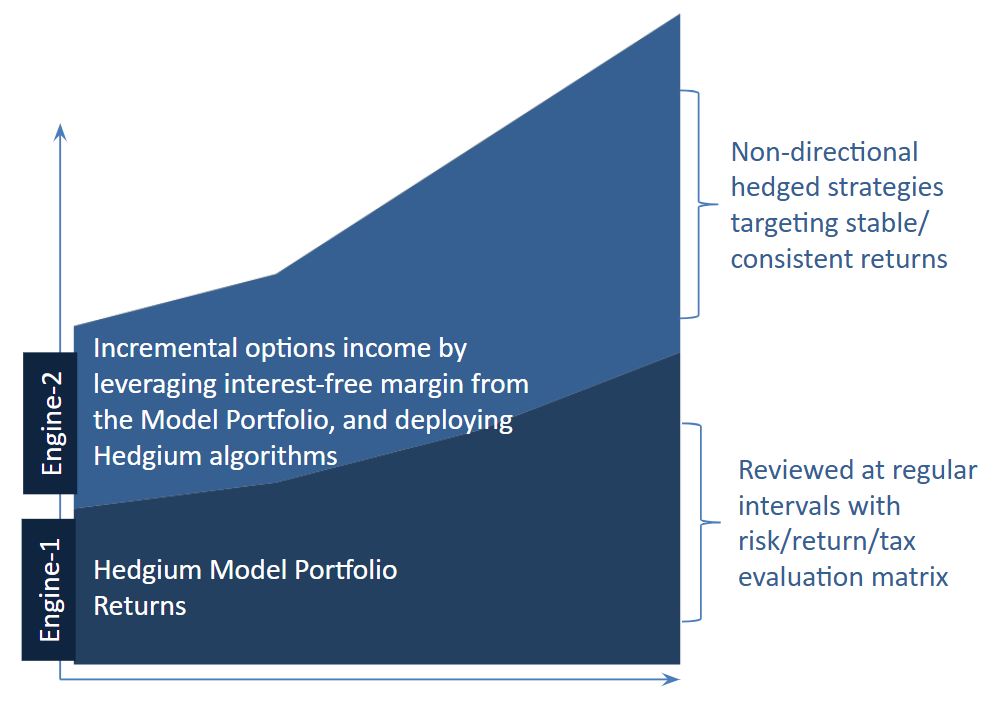
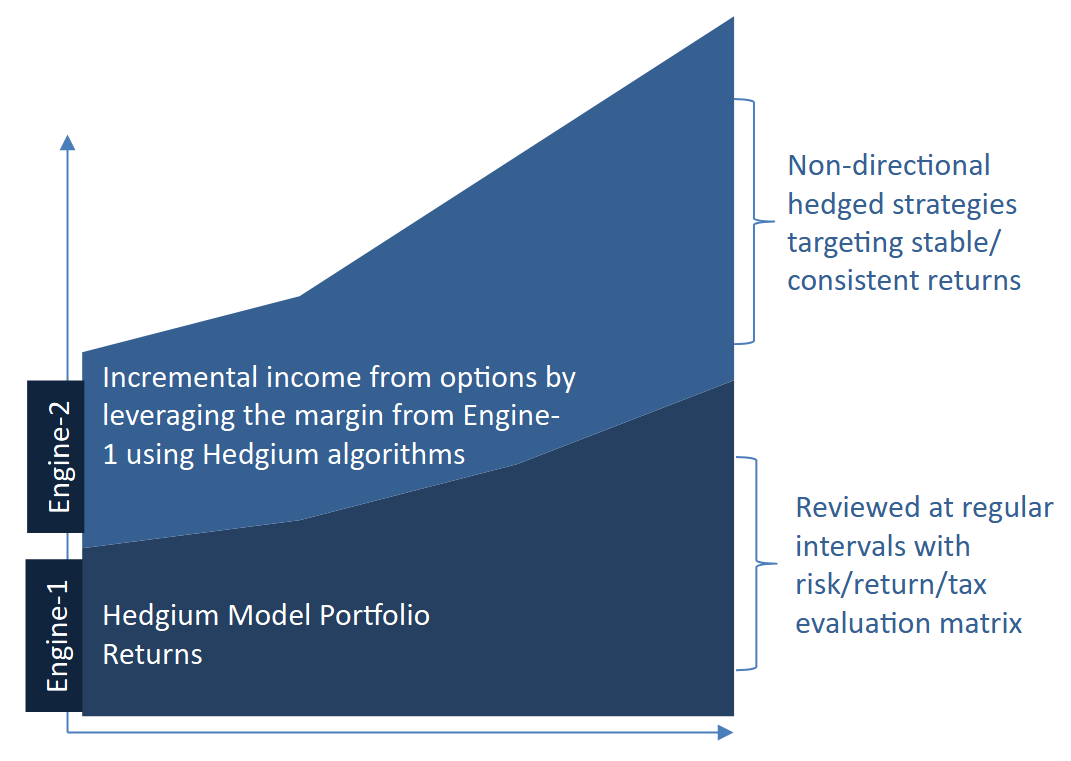
v1.1.4

diff --git a/src/components/home/FeesSection.tsx b/src/components/home/FeesSection.tsx
@@ -50,7 +50,7 @@ export default function FeesSection() {
                 Accredited or Institutional Clients
               </h3>
               <div className="flex gap-6 items-start">
-                <span className={TIER_COL}>1 Cr</span>
+                <span className={TIER_COL}>75L+</span>
                 <div className={DESC_COL}>
                   <p>Customized pricing depending on mandate</p>
                 </div>
